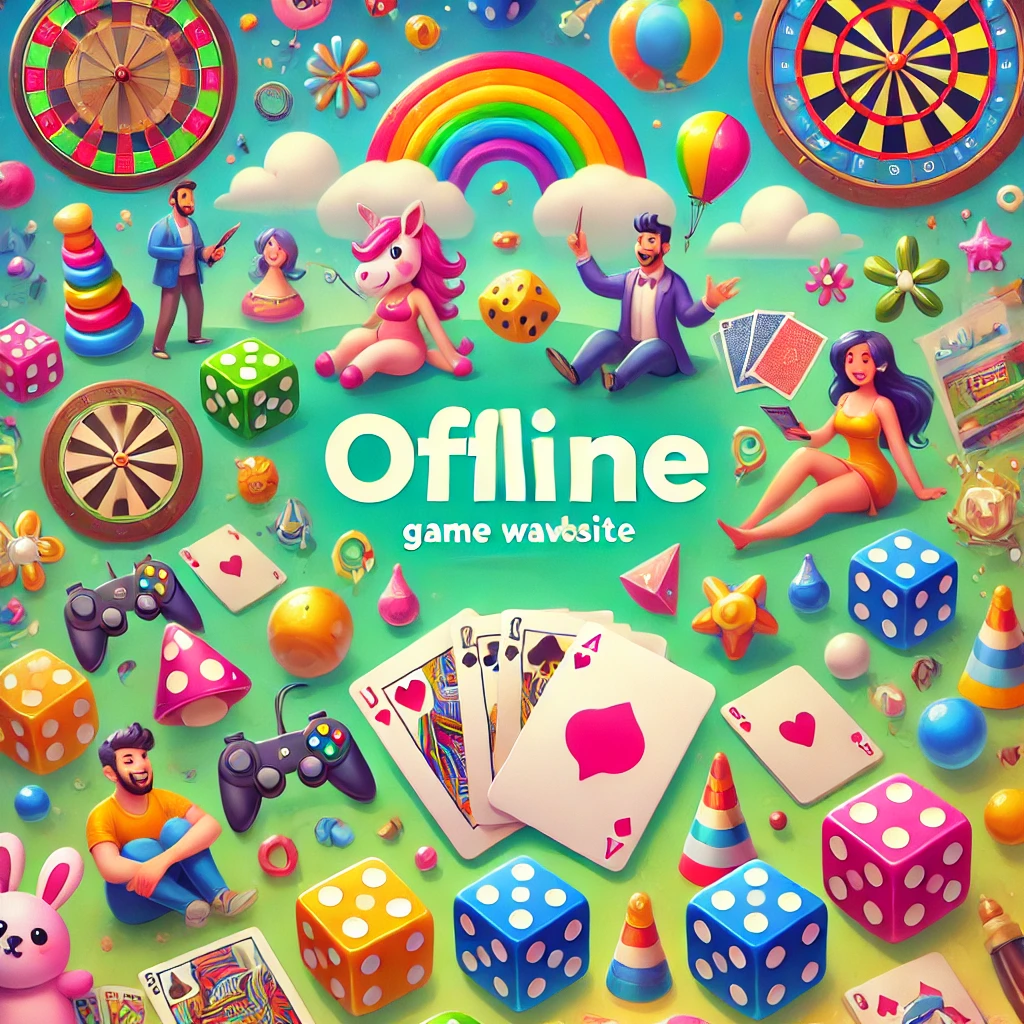
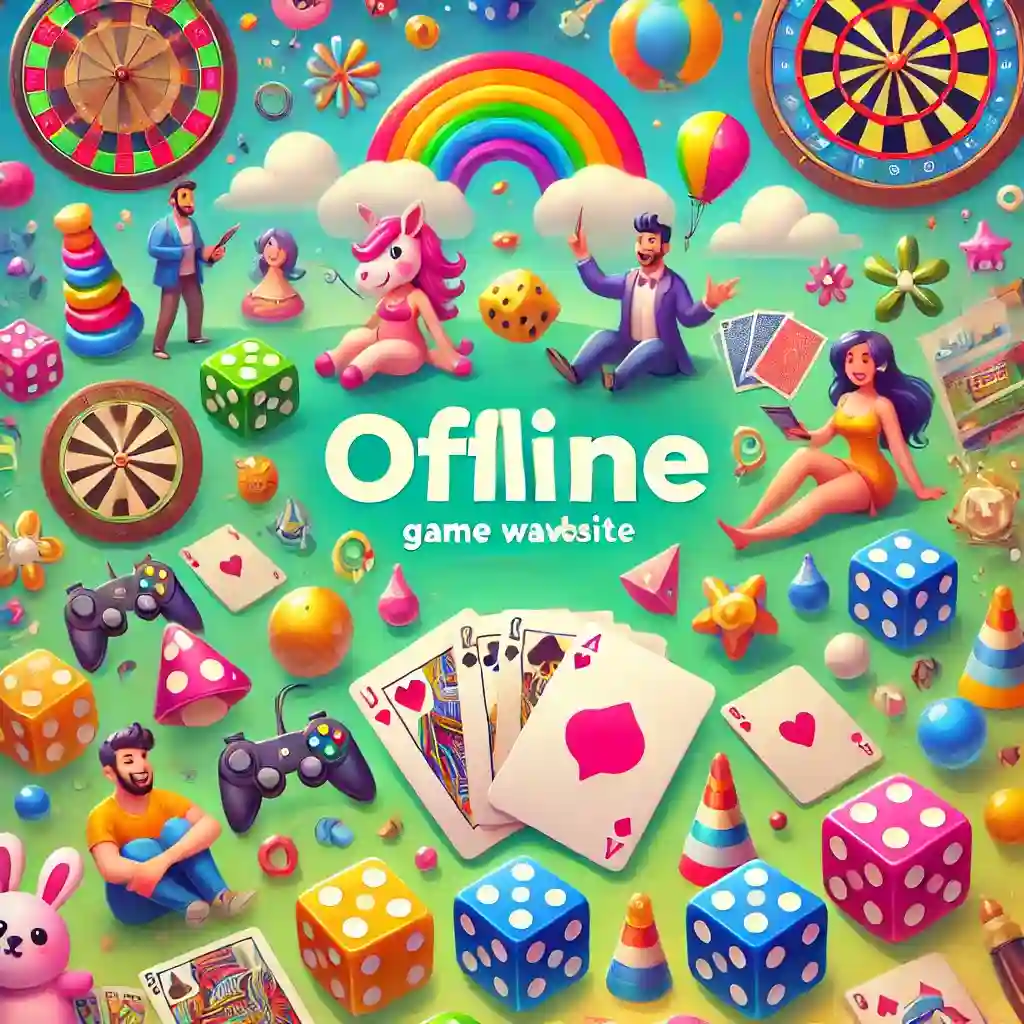
로그인 배경사진 사이즈 축소(speed index 개선), 잔수정, 홈이동시 방내역 호출

diff --git a/src/hooks/useLoadingReset.js b/src/hooks/useLoadingReset.js
@@ -16,7 +16,7 @@ function useLoadingReset(socket, dispatch) {
                     dispatch(setIsLoading(false));
                     dispatch(showToast({ message: '서버와 재연결 시도중.. 모달이 열려있다면 닫았다가 다시 시도해주세요.', type: 'error' }));
                 }
-            }, 5000); // 5초 후 타임아웃
+            }, 9000); // 9초 후 타임아웃
         }
 
         // 컴포넌트가 언마운트되거나 로딩 상태가 변경되면 타이머 해제

diff --git a/src/hooks/useRedirectIfInvalidRoom.js b/src/hooks/useRedirectIfInvalidRoom.js
@@ -19,6 +19,7 @@ const useRedirectIfInvalidRoom = (roomId) => {
         if (!response.isInRoom) {
           dispatch(showToast({ message: '잘못된 접근입니다. 대기방으로 이동합니다.', type: 'error' }));
           router.push('/');
+          socket?.emit('get-room-list');
         }
       });
     } else if (status === "loading") {

diff --git a/src/hooks/useRedirectIfNotHost.js b/src/hooks/useRedirectIfNotHost.js
@@ -19,6 +19,7 @@ const useRedirectIfNotHost = (roomId) => {
         if (!response.isInRoom) {
           dispatch(showToast({ message: '호스트가 아닙니다. 대기방으로 이동합니다.', type: 'error' }));
           router.push('/');
+          socket?.emit('get-room-list');
         }
       });
     } else if (status === "loading") {

diff --git a/src/app/games/shuffle/page.js b/src/app/games/shuffle/page.js
@@ -10,6 +10,7 @@ export default function ShuffleGame() {
 
   const handleGoHome = () => {
     router.push('/');  // 홈으로 이동
+    socket?.emit('get-room-list');
   };
 
   return (
